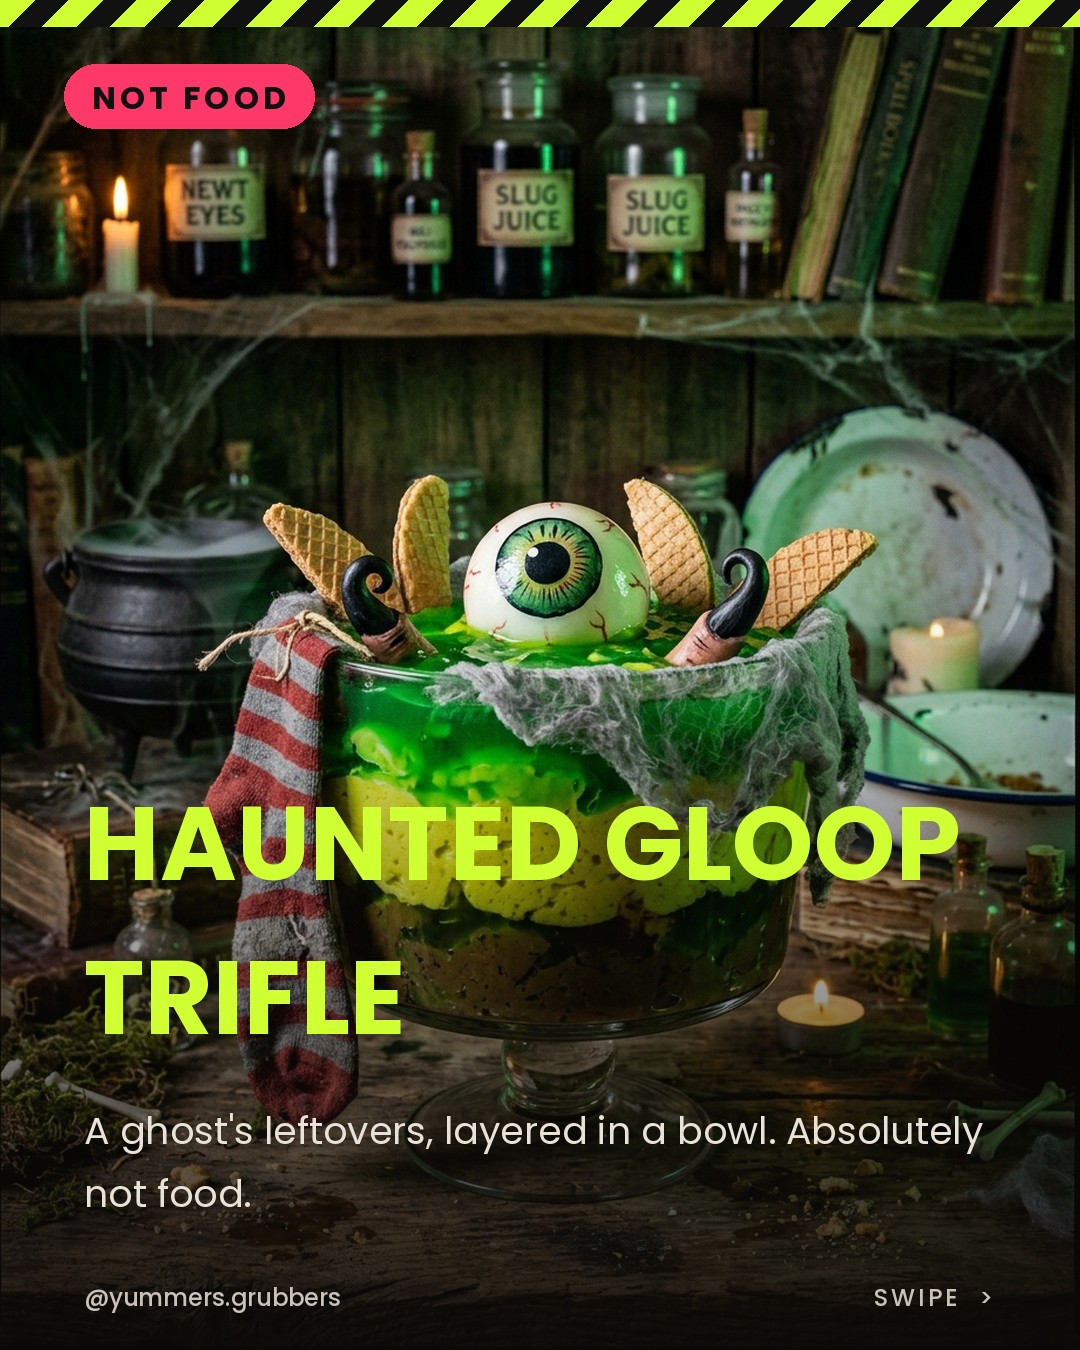
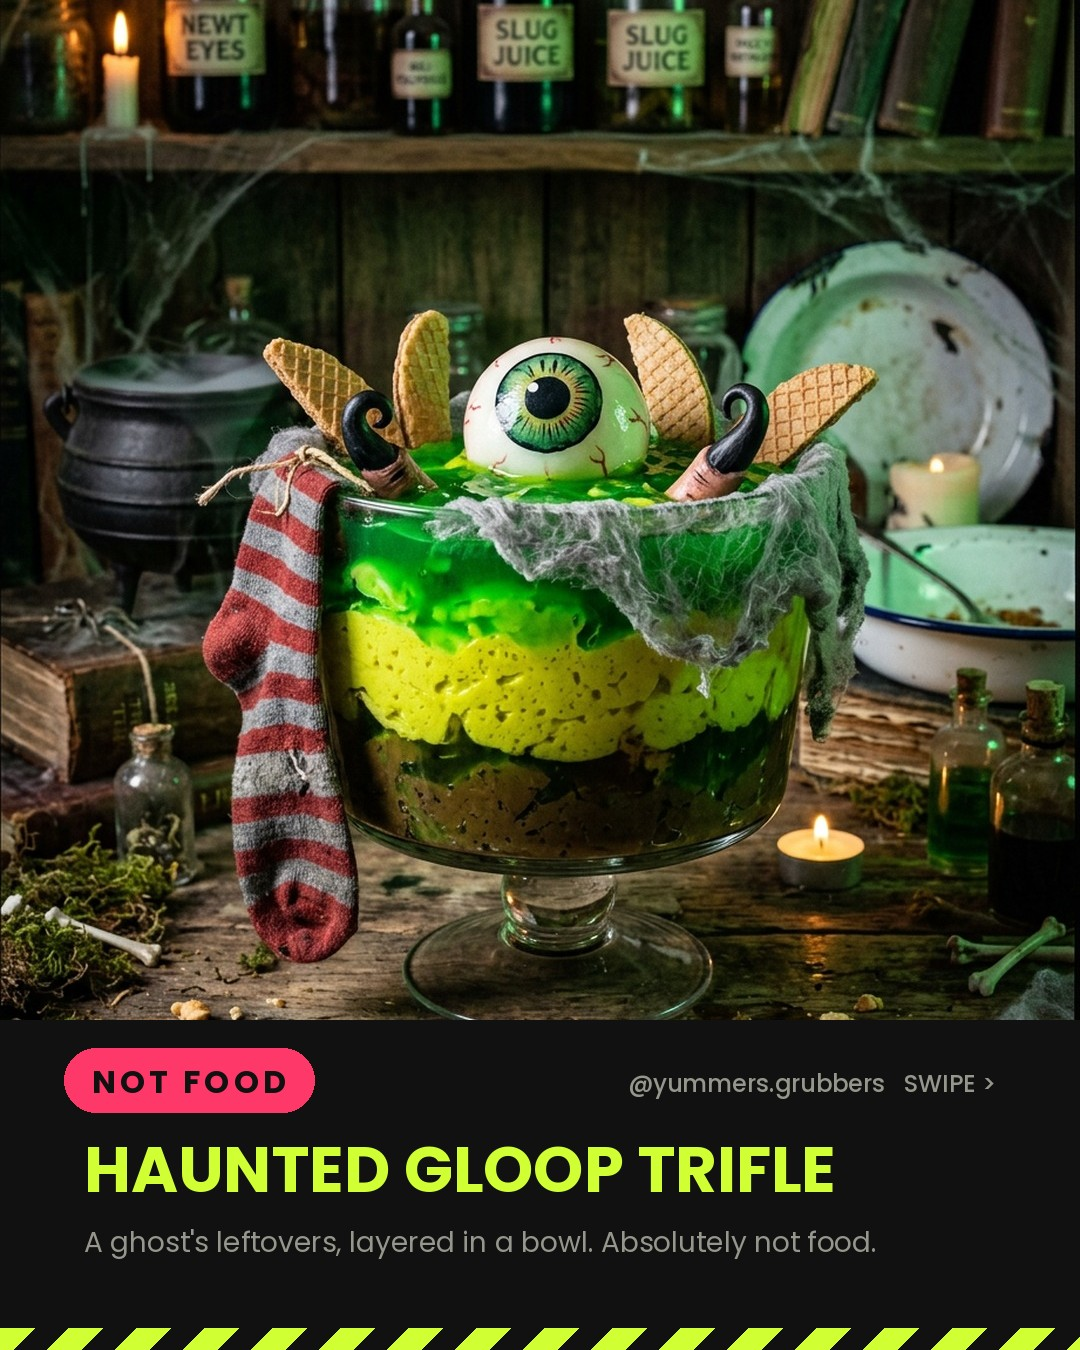
Cover slide: photo shown untouched, title and badge in a band below
Nothing is drawn over the food any more, so people can zoom in on the
details. Photos are now generated square and framed with room around the
dish. Today's cover re-rendered in the new layout.

Claude-Session: https://claude.ai/code/session_015E94BLPgmEXG9K5Qhsoekk

diff --git a/grub/slides.py b/grub/slides.py
@@ -113,37 +113,47 @@ def badge(d, t, xy):
 
 # ---------------------------------------------------------------- slides
 
+PHOTO_H = 1020   # the photo gets the top 1080 x 1020; nothing is ever drawn over it
+
+
+def _cover(img: Image.Image, w: int, h: int) -> Image.Image:
+    iw, ih = img.size
+    scale = max(w / iw, h / ih)
+    img = img.resize((round(iw * scale), round(ih * scale)), Image.LANCZOS)
+    left, top = (img.width - w) // 2, (img.height - h) // 2
+    return img.crop((left, top, left + w, top + h))
+
+
 def slide_hero(hero: Path, recipe: dict, kind: str, handle: str, swipe: bool = True) -> Image.Image:
     t = THEMES[kind]
-    img = Image.open(hero).convert("RGB").resize((W, H))
-    shade = Image.new("L", (1, H))
-    for y in range(H):
-        p = max(0.0, (y - H * 0.42) / (H * 0.58))
-        shade.putpixel((0, y), int(235 * min(1.0, p ** 1.25)))
-    dark = Image.new("RGB", (W, H), (12, 10, 8))
-    img = Image.composite(dark, img, shade.resize((W, H)))
+    img = Image.new("RGB", (W, H), t["bg"])
+    img.paste(_cover(Image.open(hero).convert("RGB"), W, PHOTO_H), (0, 0))
     d = ImageDraw.Draw(img)
+    band_top = PHOTO_H
     if kind == "not_edible":
-        hazard(d, (0, 0, W, 26))
-    badge(d, t, (M - 20, 64))
+        hazard(d, (0, H - 22, W, H))
 
-    style = "serif" if t["title"] == "serif" else "bold"
-    tf, tlines = fit_title(title_text(recipe, kind), style, W - 2 * M, 104, 64, 3)
-    sf = font("serif-italic" if kind == "edible" else "regular", 38)
-    slines = wrap(recipe["tagline"], sf, W - 2 * M)[:2]
-    y = H - 120 - len(slines) * line_h(sf) - 26 - len(tlines) * line_h(tf, 1.05)
-    for ln in tlines:
-        d.text((M, y), ln, font=tf, fill=(255, 255, 255) if kind == "edible" else t["accent"])
-        y += line_h(tf, 1.05)
-    y += 26
-    for ln in slines:
-        d.text((M, y), ln, font=sf, fill=(232, 226, 216))
-        y += line_h(sf)
+    # Row 1: badge left, handle (and swipe hint) right
+    y = band_top + 28
+    badge(d, t, (M - 20, y))
     f = font("medium", 24)
-    d.text((M, H - 70), handle, font=f, fill=(200, 194, 184))
-    if swipe:
-        hint = "SWIPE  >"
-        tracked(d, (W - M - sum(f.getlength(c) + 3 for c in hint), H - 70), hint, f, (200, 194, 184), 3)
+    right = handle + ("   SWIPE >" if swipe else "")
+    d.text((W - M - f.getlength(right), y + 18), right, font=f, fill=t["muted"])
+
+    # Title: up to 2 lines, then the tagline on one line
+    style = "serif" if t["title"] == "serif" else "bold"
+    tf, tlines = fit_title(title_text(recipe, kind), style, W - 2 * M, 64, 40, 2)
+    y = band_top + 104
+    colour = t["ink"] if kind == "edible" else t["accent"]
+    for ln in tlines[:2]:
+        d.text((M, y), ln, font=tf, fill=colour)
+        y += line_h(tf, 1.02)
+    sf = font("serif-italic" if kind == "edible" else "regular", 28)
+    tag = recipe["tagline"]
+    while sf.getlength(tag) > W - 2 * M and " " in tag:
+        tag = tag.rsplit(" ", 1)[0].rstrip(",;:") + "…"
+    if y + line_h(sf) <= H - 30:
+        d.text((M, y + 6), tag, font=sf, fill=t["muted"])
     return img
 
 

diff --git a/grub/image.py b/grub/image.py
@@ -11,23 +11,25 @@ from . import env
 W, H = 1080, 1350
 
 
-def fit_4x5(img: Image.Image) -> Image.Image:
+def fit(img: Image.Image, w: int = W, h: int = H) -> Image.Image:
+    """Centre-crop to w:h and resize."""
     img = img.convert("RGB")
-    target = W / H
-    w, h = img.size
-    if w / h > target:            # too wide: trim the sides
-        nw = int(h * target)
-        img = img.crop(((w - nw) // 2, 0, (w - nw) // 2 + nw, h))
+    target = w / h
+    iw, ih = img.size
+    if iw / ih > target:            # too wide: trim the sides
+        nw = int(ih * target)
+        img = img.crop(((iw - nw) // 2, 0, (iw - nw) // 2 + nw, ih))
     else:                         # too tall: trim top and bottom
-        nh = int(w / target)
-        img = img.crop((0, (h - nh) // 2, w, (h - nh) // 2 + nh))
-    return img.resize((W, H), Image.LANCZOS)
+        nh = int(iw / target)
+        img = img.crop((0, (ih - nh) // 2, iw, (ih - nh) // 2 + nh))
+    return img.resize((w, h), Image.LANCZOS)
 
 
 def generate(prompt: str, kind: str, cfg: dict, out: Path, log=print, theme: dict | None = None) -> Path:
     icfg = cfg["image"]
     style = (theme or {}).get(f"{kind}_style") or icfg["style"][kind]
-    full_prompt = f"{prompt.strip()}\n\nStyle: {style}"
+    full_prompt = (f"{prompt.strip()}\n\nStyle: {style}\n\nComposition: the whole dish fully in frame and centred, "
+                   "with a little breathing room around it; nothing important touching the edges.")
     body = {"prompt": full_prompt, **icfg.get("params", {})}
     log(f"  image: calling {icfg['model']}")
     resp = httpx.post(f"https://fal.run/{icfg['model']}",
@@ -39,7 +41,8 @@ def generate(prompt: str, kind: str, cfg: dict, out: Path, log=print, theme: dic
     if not url:
         raise RuntimeError(f"fal.ai returned no image: {str(data)[:300]}")
     raw = httpx.get(url, timeout=120, follow_redirects=True).content
-    fit_4x5(Image.open(io.BytesIO(raw))).save(out, "JPEG", quality=92)
+    size = icfg.get("size", [1080, 1080])
+    fit(Image.open(io.BytesIO(raw)), size[0], size[1]).save(out, "JPEG", quality=94)
     return out
 
 
